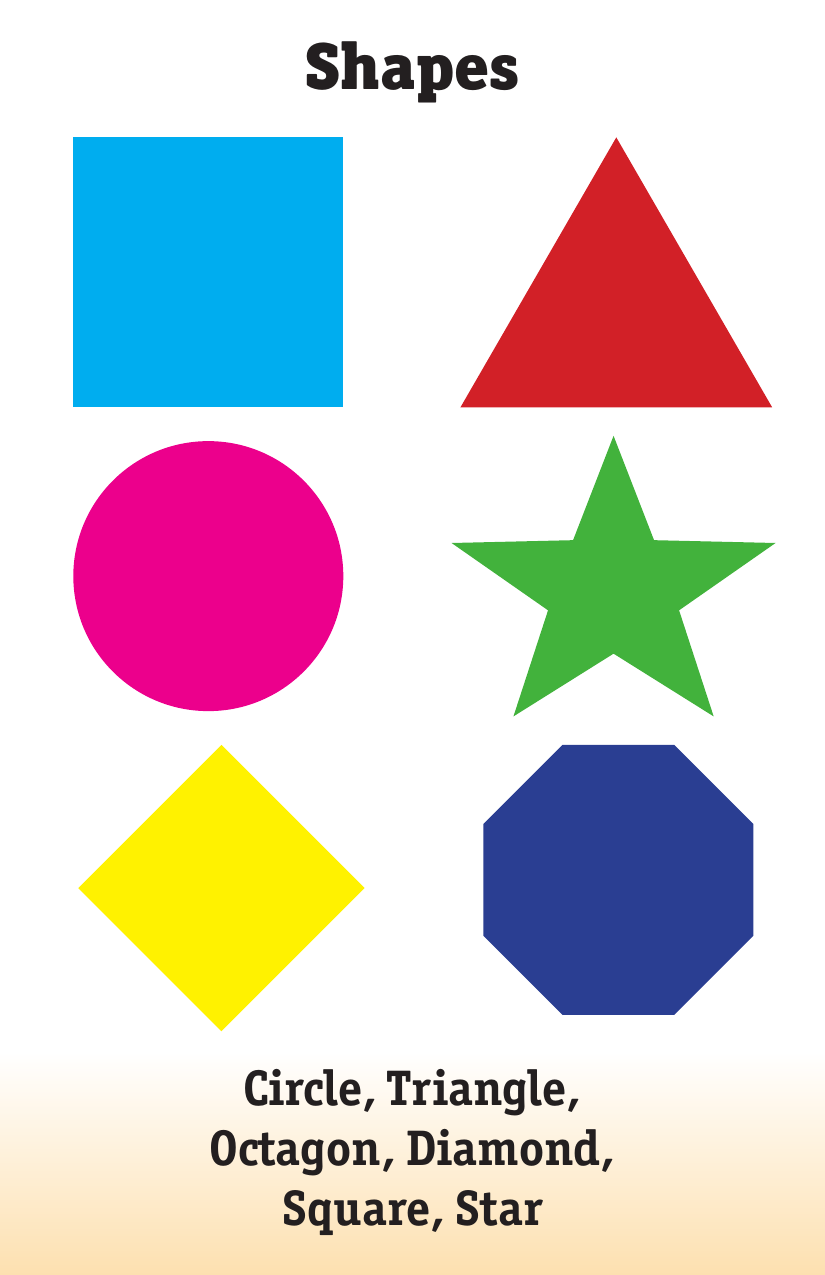
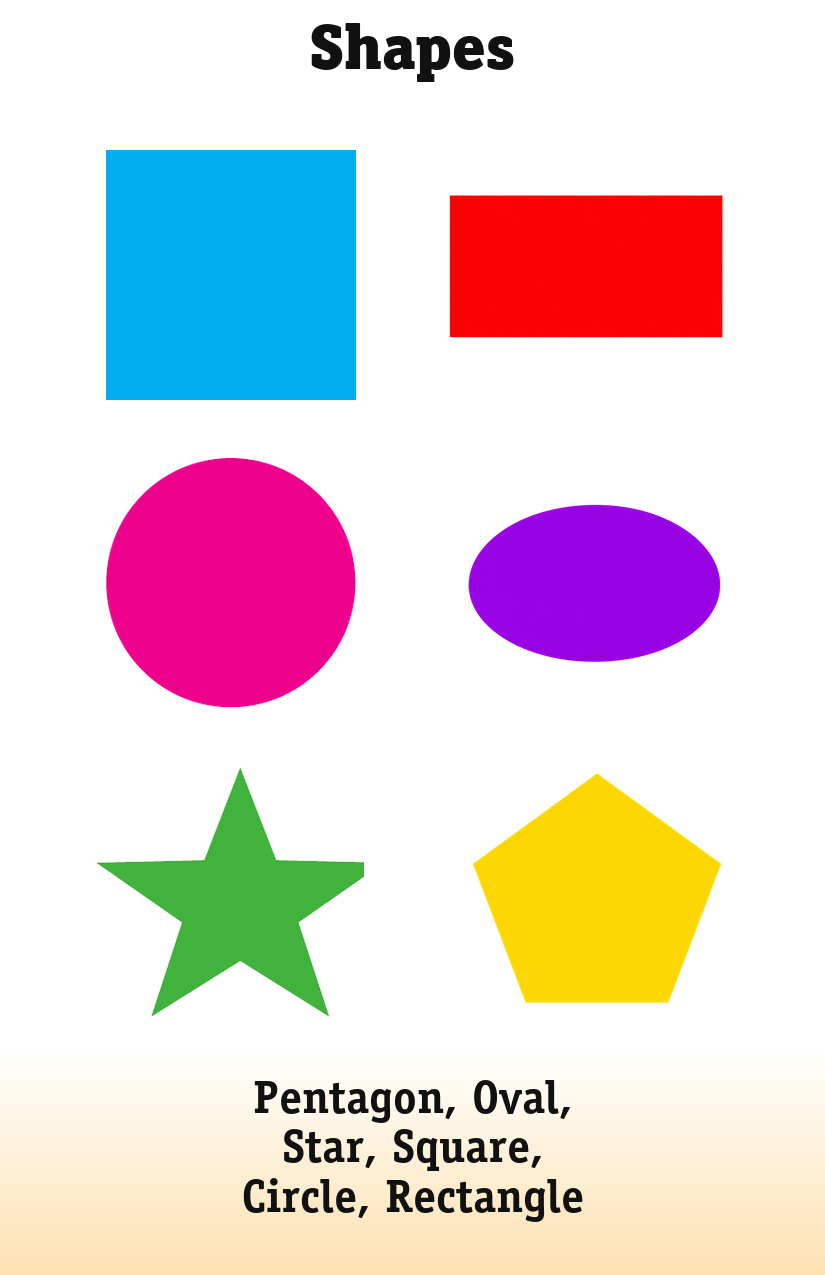
Rebuild Shapes around intrinsic visual pairs

diff --git a/picture-this/game-data.js b/picture-this/game-data.js
@@ -82,11 +82,11 @@ window.PICTURE_THIS_GAME_DATA = {
   ],
   "shapes": [
     "Square",
-    "Triangle",
+    "Rectangle",
     "Circle",
+    "Oval",
     "Star",
-    "Diamond",
-    "Octagon"
+    "Pentagon"
   ],
   "bugs": [
     "Ant",
@@ -1406,6 +1406,42 @@ window.PICTURE_THIS_GAME_DATA = {
 window.PICTURE_THIS_GAME_META = {
   "schema_version": 1,
   "cards": {
+    "shapes": {
+      "title": "Shapes",
+      "category_answers": ["Shapes", "Basic Shapes", "Geometric Shapes", "Shape Symbols"],
+      "tags": ["shapes", "geometry", "symbols", "school"],
+      "items": [
+        {"id": "square", "label": "Square", "answers": ["Square", "Square Shape"]},
+        {"id": "rectangle", "label": "Rectangle", "answers": ["Rectangle", "Rectangular Shape"]},
+        {"id": "circle", "label": "Circle", "answers": ["Circle", "Round Circle"]},
+        {"id": "oval", "label": "Oval", "answers": ["Oval", "Oval Shape"]},
+        {"id": "star", "label": "Star", "answers": ["Star", "Star Shape", "Five Point Star"]},
+        {"id": "pentagon", "label": "Pentagon", "answers": ["Pentagon", "Five Sided Shape", "Five Sided Polygon"]}
+      ],
+      "links": [
+        {
+          "word": "four",
+          "answers": ["four", "quadrilateral", "quadrilaterals"],
+          "items": ["square", "rectangle"],
+          "explanation": "The square and rectangle are the only two shapes shown with four straight sides.",
+          "audit": "exclusive-among-six-v1"
+        },
+        {
+          "word": "round",
+          "answers": ["round", "rounded"],
+          "items": ["circle", "oval"],
+          "explanation": "The circle and oval are the only two fully rounded shapes shown without points or corners.",
+          "audit": "exclusive-among-six-v1"
+        },
+        {
+          "word": "five",
+          "answers": ["five"],
+          "items": ["star", "pentagon"],
+          "explanation": "The five-point star and five-sided pentagon are the only two shapes shown defined by the number five.",
+          "audit": "exclusive-among-six-v1"
+        }
+      ]
+    },
     "personal-items": {
       "title": "Personal Items",
       "category_answers": ["Personal Items", "Personal Belongings", "Everyday Personal Items", "Things You Carry"],

diff --git a/picture-this/question-data.js b/picture-this/question-data.js
@@ -443,45 +443,45 @@ window.PICTURE_THIS_QUESTION_DATA = {
   },
   "shapes": {
     "questions": [
-      "Which shapes on the card have sides? How many sides does each one have?",
-      "What things in this room look like the shapes on the card?",
-      "What three things outside of the classroom have these shapes?",
-      "What shapes are used for traffic signs? What do the signs mean?",
-      "What is the same about an octagon and an octopus?",
-      "In which school subjects do you study shapes? Do you like to study shapes?"
+      "Which shapes have four sides, rounded edges, or five points or sides?",
+      "How is a square different from a rectangle?",
+      "How is a circle different from an oval?",
+      "What has five sides, and what has five points?",
+      "Which shape is easiest or hardest for you to draw? Why?",
+      "Imagine you design a sign. Which three shapes would you use?"
     ],
     "positions": [
-      13.14,
-      27.49,
-      37.61,
-      47.73,
-      57.84,
-      67.88
+      12.43,
+      27.06,
+      37.41,
+      47.76,
+      58.16,
+      68.47
     ],
     "endpoints": [
       {
-        "x": 36.12,
-        "y": 21.65
+        "x": 28.24,
+        "y": 20.94
       },
       {
-        "x": 66.06,
-        "y": 31.69
+        "x": 38.42,
+        "y": 31.65
       },
       {
-        "x": 79.52,
-        "y": 42.16
+        "x": 26.42,
+        "y": 41.65
       },
       {
-        "x": 83.52,
-        "y": 51.96
+        "x": 51.39,
+        "y": 52.31
       },
       {
-        "x": 49.94,
-        "y": 62.43
+        "x": 67.39,
+        "y": 62.67
       },
       {
-        "x": 31.64,
-        "y": 76.75
+        "x": 24.61,
+        "y": 77.02
       }
     ]
   },

diff --git a/picture-this/link-data.js b/picture-this/link-data.js
@@ -26,7 +26,7 @@ window.PICTURE_THIS_LINK_DATA = {
     pictureThisLink("active", [2,3], "Playing sports and riding a bike are the only two explicitly physical activities shown.", ["exercise"]),
     pictureThisLink("stories", [0,5], "Reading books and watching movies are the only two activities shown that characteristically present stories.", ["story"])
   ],
-  "shapes": [pictureThisLink("quadrilaterals", [0,4], "The square and diamond are the only two shapes shown with four sides.", ["quadrilateral"])],
+  "shapes": [],
   "bugs": [],
   "tools": [pictureThisLink("jaws", [0,5], "Pliers and a wrench are the only two tools shown designed with gripping jaws.", ["jawed"])],
   "outdoor-places": [
@@ -279,10 +279,7 @@ const auditedLinkAdditions = {
     pictureThisLink("sweets", [0,4], "Chocolate and donuts are the only two sweet dessert treats shown.")
   ],
   "hobbies": [pictureThisLink("screens", [4,5], "Surfing the Internet and watching movies are the only two hobbies shown primarily done by viewing a screen.")],
-  "shapes": [
-    pictureThisLink("odd", [1,3], "Triangle and star are the only two shapes shown with an odd number of points or corners."),
-    pictureThisLink("roundlike", [2,5], "Circle and octagon are the only two shapes shown commonly used as progressively smoother wheel-like outlines.")
-  ],
+  "shapes": [],
   "bugs": [],
   "tools": [
     pictureThisLink("teeth", [0,2], "Pliers and saw are the only two tools shown with rows of functional metal teeth."),
